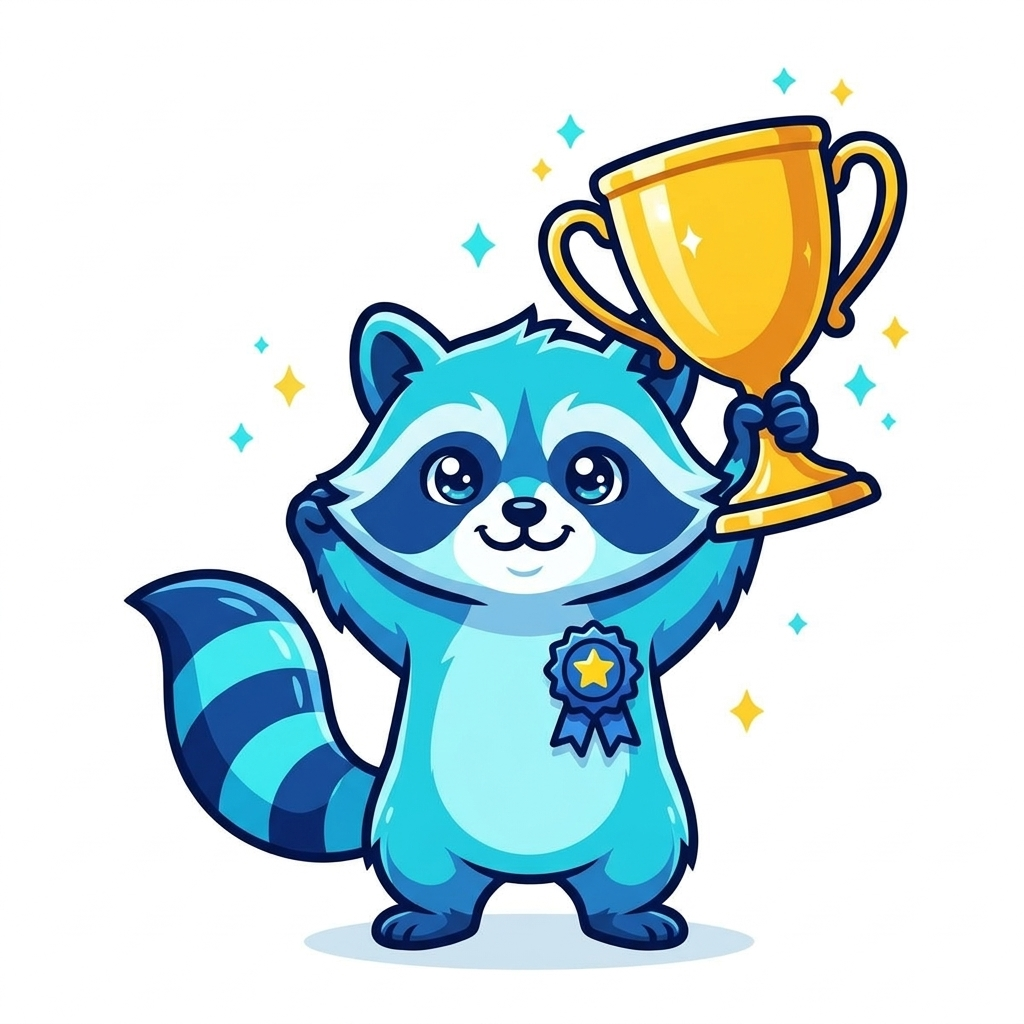
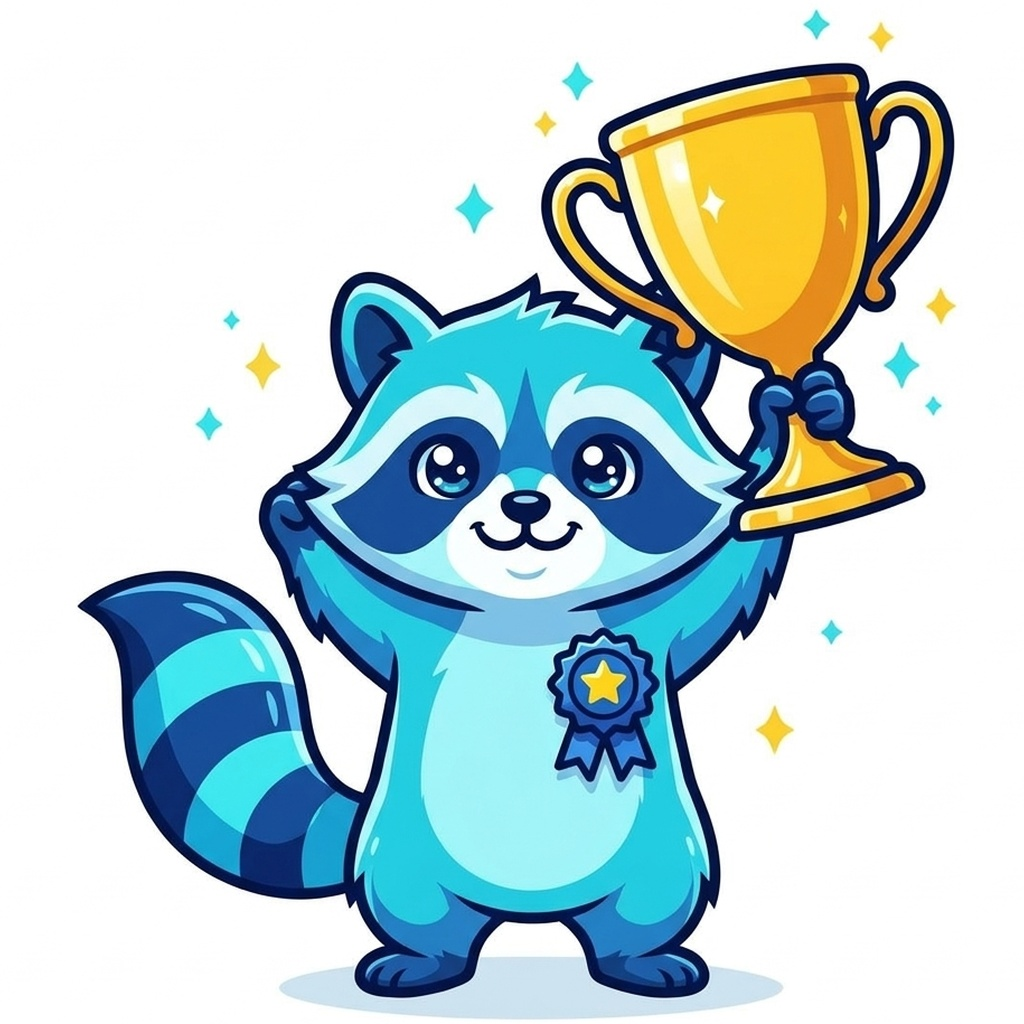
feat(design-system): normalize raccoon mascot character size uniformly across all pages

diff --git a/apps/web/src/design-system/components/EmptyState/EmptyStateIllustration.css b/apps/web/src/design-system/components/EmptyState/EmptyStateIllustration.css
@@ -33,6 +33,7 @@
 }
 
 .bezent-sleeping-raccoon-img {
+  --raccoon-scale: 1;
   width: 100%;
   max-width: 160px;
   max-height: 160px;
@@ -41,6 +42,7 @@
   object-fit: contain;
   border-radius: 8px;
   transform-origin: bottom center;
+  transform: scale(var(--raccoon-scale, 1));
   animation: bezentRaccoonBreathe 3.8s ease-in-out infinite;
   transition: transform 0.35s cubic-bezier(0.4, 0, 0.2, 1);
 }
@@ -51,17 +53,18 @@
 }
 
 .bezent-empty-illustration-container:hover .bezent-sleeping-raccoon-img {
-  transform: scale(1.03);
+  transform: scale(calc(var(--raccoon-scale, 1) * 1.03));
 }
 
-/* Gentle synchronized breathing motion */
+/* Gentle synchronized breathing motion respecting per-variant scale */
 @keyframes bezentRaccoonBreathe {
   0%,
   100% {
-    transform: scale(1) translateY(0);
+    transform: scale(var(--raccoon-scale, 1)) translateY(0);
   }
   50% {
-    transform: scale(1.012, 1.02) translateY(-0.8px);
+    transform: scale(calc(var(--raccoon-scale, 1) * 1.012), calc(var(--raccoon-scale, 1) * 1.02))
+      translateY(-0.8px);
   }
 }
 

diff --git a/apps/web/src/design-system/components/EmptyState/EmptyStateIllustration.tsx b/apps/web/src/design-system/components/EmptyState/EmptyStateIllustration.tsx
@@ -99,7 +99,12 @@ export function EmptyStateIllustration({
       aria-hidden="true"
     >
       <div className="bezent-sleeping-raccoon-stage">
-        <img src={activeImage} alt="" className="bezent-sleeping-raccoon-img" draggable={false} />
+        <img
+          src={activeImage}
+          alt=""
+          className={`bezent-sleeping-raccoon-img bezent-sleeping-raccoon-img--${variant}`}
+          draggable={false}
+        />
 
         {/* Floating Contextual Theme Badge for pages without dedicated full-body art */}
         {accent && activeImage === sleepingRaccoonImg && (
